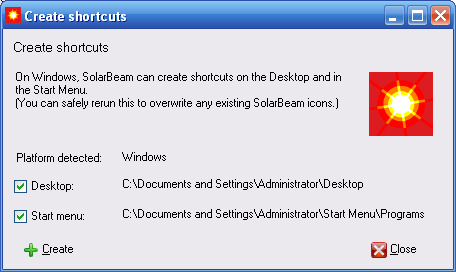
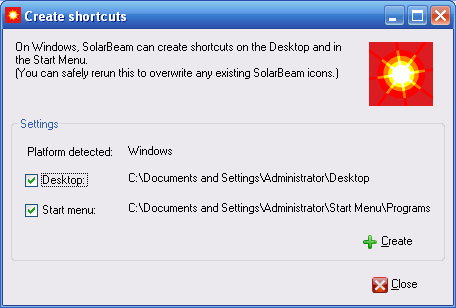
shortcut gui

diff --git a/solarbeam/GuiWidgets/GuiShortcutInstall.cs b/solarbeam/GuiWidgets/GuiShortcutInstall.cs
@@ -24,11 +24,11 @@ namespace SolarbeamGui
 			this.Text = "Create shortcuts";
 			this.Icon = new Icon(Controller.AsmInfo.GetResource(icon));
 			
-			this.Controls.Add(GetInputs());
+			this.Controls.Add(GetPanel());
 			
 			this.FormBorderStyle = FormBorderStyle.FixedDialog;
 			this.StartPosition = FormStartPosition.CenterParent;
-			this.ClientSize = new Size(450, 240);
+			this.ClientSize = new Size(450, 276);
 			
 			// prevent disposal by intercepting Close() and calling Hide()
 			this.Closing += delegate (object o, CancelEventArgs args) {
@@ -37,13 +37,10 @@ namespace SolarbeamGui
 			};
 		}
 		
-		public Control GetInputs()
+		public Control GetPanel()
 		{
 			TableLayoutPanel layout = Widgets.GetTableLayoutPanel(3, 1, 5, 5);
 
-			Label title = Widgets.GetLabel("Create shortcuts");
-			title.Font = new Font(Font.SystemFontName, 10);
-			
 			string s = "On Windows, {0} can create shortcuts on the Desktop";
 			s += " and in the Start Menu.\n";
 			s += "(You can safely rerun this to overwrite any existing {1} icons.)";
@@ -64,6 +61,33 @@ namespace SolarbeamGui
 			desc.Dock = DockStyle.Fill;
 			desc.RowCount = 1;
 			desc.RowStyles.Add(new RowStyle(SizeType.Percent, 100F));
+			
+			Control inputs = GetInputs();
+			
+			Control buttons = Widgets.GetLaidOut(
+				new Control[] {
+					Widgets.GetLabel(String.Empty), //layout buffer
+					Widgets.GetButtonImageText(
+						Controller.Id.SHORTCUTCLOSE_ACTION,
+						"&Close",
+						"app-exit.png")},
+				new float[] {80F, 20F});
+			
+			layout.Controls.Add(desc, 0, 0);
+			layout.RowStyles.Add(new RowStyle(SizeType.Absolute, 80));
+			
+			layout.Controls.Add(inputs, 0, 1);
+			layout.RowStyles.Add(new RowStyle(SizeType.Absolute, 150));
+			
+			layout.Controls.Add(buttons, 0, 2);
+			layout.RowStyles.Add(new RowStyle(SizeType.Absolute, 40));
+			
+			return layout;
+		}
+		
+		public Control GetInputs()
+		{
+			TableLayoutPanel layout = Widgets.GetTableLayoutPanel(3, 1, 5, 5);
 			
 			TextBox plat_in = Widgets.GetTextBox(
 						Controller.Id.SHORTCUT_PLATFORM,
@@ -100,36 +124,31 @@ namespace SolarbeamGui
 			
 			Control buttons = Widgets.GetLaidOut(
 				new Control[] {
+					Widgets.GetLabel(String.Empty),
 					Widgets.GetButtonImageText(
 						Controller.Id.SHORTCUTINSTALL_ACTION,
 						"&Create",
-						"new.png"),
-					Widgets.GetLabel(String.Empty), //layout buffer
-					Widgets.GetButtonImageText(
-						Controller.Id.SHORTCUTCLOSE_ACTION,
-						"&Close",
-						"app-exit.png")},
-				new float[] {20F, 60F, 20F});
+						"new.png")},
+				new float[] {80F, 20F});
 			
-			layout.Controls.Add(title, 0, 0);
-			layout.RowStyles.Add(new RowStyle(SizeType.Absolute, 30));
-			
-			layout.Controls.Add(desc, 0, 1);
-			layout.RowStyles.Add(new RowStyle(SizeType.Absolute, 80));
-			
-			layout.Controls.Add(platform, 0, 2);
+			layout.Controls.Add(platform, 0, 0);
 			layout.RowStyles.Add(new RowStyle(SizeType.Absolute, 25));
 			
-			layout.Controls.Add(desktop, 0, 3);
+			layout.Controls.Add(desktop, 0, 1);
 			layout.RowStyles.Add(new RowStyle(SizeType.Absolute, 30));
 			
-			layout.Controls.Add(startmenu, 0, 4);
+			layout.Controls.Add(startmenu, 0, 2);
 			layout.RowStyles.Add(new RowStyle(SizeType.Absolute, 30));
 			
-			layout.Controls.Add(buttons, 0, 5);
-			layout.RowStyles.Add(new RowStyle(SizeType.Absolute, 40));
+			layout.Controls.Add(buttons, 0, 3);
+			layout.RowStyles.Add(new RowStyle(SizeType.Absolute, 30));
 			
-			return layout;
+			GroupBox outputs = new GroupBox();
+			outputs.Text = "Settings";
+			outputs.Dock = DockStyle.Fill;
+			outputs.Controls.Add(layout);
+			
+			return outputs;
 		}
 	}
 }
